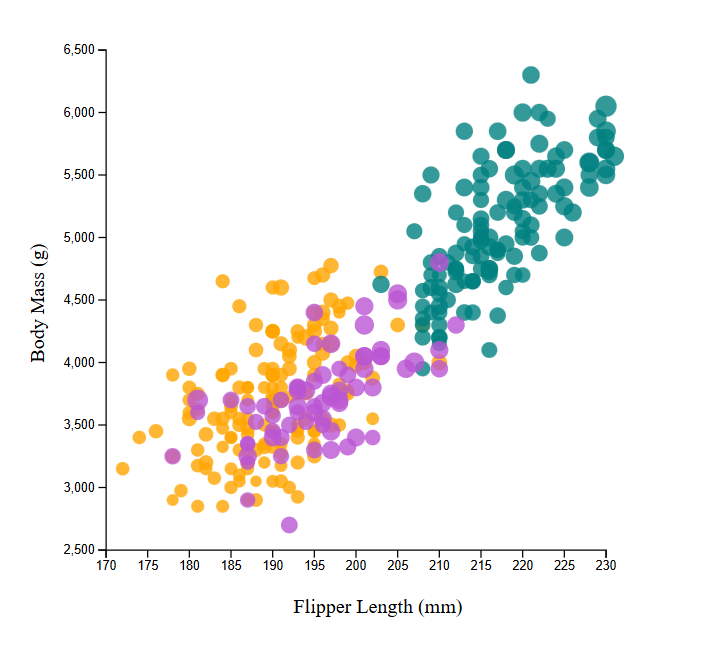
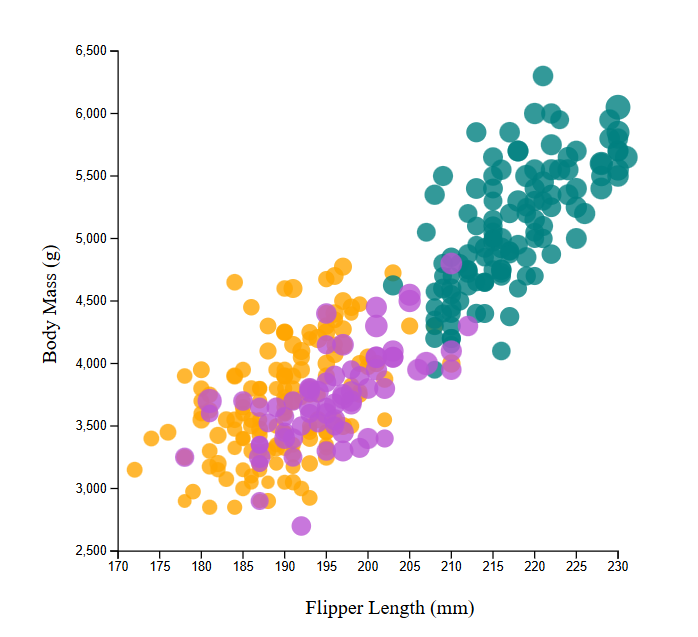
For JS and D3 implementation, added interactivity (showing information about a specific point)

Changed region(s): [[0.0301, 0.0597, 0.9327, 0.9843]]

diff --git a/all_visualizations/d3_viz.html b/all_visualizations/d3_viz.html
@@ -9,16 +9,18 @@
     const svg = d3.select("#container")
         .append("svg")
             .attr("width", 800)
-            .attr("height", 800)
+            .attr("height", 600)
         .append("g")
             .attr("transform", "translate(100, 100)");
 
     // Filtered the data by preserving only the objects where the flipper length was not NA and the body mass was above 2500 grams (so points were not placed below the x-axis)
     // Also called the plotData function within the d3 function
-    // Note: Debugged with Prof. Harrison's assistance
+    // Note: Debugged with Prof. Harrison's assistance (he also suggested and helped with using the filter function)
     d3.csv("https://raw.githubusercontent.com/TheLegacy-Coder/a2-DataVis-5ways/refs/heads/main/penglings.csv").then(function(scatterData) {
             console.log(scatterData);
-            const filteredData = scatterData.filter(function(singleDataObject) {return singleDataObject.flipper_length_mm != "NA" && singleDataObject.body_mass_g > 2500});
+            const filteredData = scatterData.filter(function(singleDataObject) {
+                return singleDataObject.flipper_length_mm != "NA" && singleDataObject.body_mass_g > 2500;
+            });
             console.log(filteredData);
             plotData(filteredData);
     });
@@ -63,15 +65,40 @@
             .data(scatterData)
             .enter()
             .append("circle")
-                .attr("cx", function(singleDataObject) {return xAxis(singleDataObject.flipper_length_mm)})
-                .attr("cy", function(singleDataObject) {return yAxis(singleDataObject.body_mass_g)})
-                .attr("r", function(singleDataObject) {
-                    return singleDataObject.bill_length_mm / 7
+                .attr("cx", function(singleDataObject) {
+                    return xAxis(singleDataObject.flipper_length_mm);
                 })
-                .style("fill", function(singleDataObject) {return speciesColorCodes(singleDataObject.species)})
+                .attr("cy", function(singleDataObject) {
+                    return yAxis(singleDataObject.body_mass_g);
+                })
+                .attr("r", function(singleDataObject) {
+                    return singleDataObject.bill_length_mm / 6;
+                })
+                .style("fill", function(singleDataObject) {
+                    return speciesColorCodes(singleDataObject.species);
+                })
                 .style("opacity", 0.8);
 
-        // I will add mouseover functionality for seeing details about a specific point
+        // Referred to https://d3-graph-gallery.com/graph/interactivity_tooltip.html for adding an info pane for the data points, as well as the mouseover and mouseout functionality
+        const pointInfoPane  = d3.select("#container")
+            .append("div")
+                .style("visibility", "hidden");
+        
+        d3.selectAll("circle")
+            .on("mouseover", function(singleMouseEvent, singleDataObject) {
+                pointInfoPane
+                    .style("visibility", "visible")
+                    .text("Flipper length in mm: " + singleDataObject.flipper_length_mm + 
+                    ", Body mass in g: " + singleDataObject.body_mass_g + 
+                    ", Bill length in mm: " + singleDataObject.bill_length_mm + 
+                    ", Species: " + singleDataObject.species);
+                console.log("Hovering");
+            })
+            .on("mouseout", function() {
+                pointInfoPane
+                    .style("visibility", "hidden");
+                console.log("Not hovering");
+            });
     };
 
 </script>

diff --git a/README.md b/README.md
@@ -5,6 +5,8 @@ Klaudio Fusha - Assignment 2 - Data Visualization, 5 Ways
 
 ![kf_js_d3_viz](img/Klaudio_Fusha_JS_d3_Viz.png)
 
+![kf_js_d3_viz_interactivity](img/Klaudio_Fusha_JS_d3_Viz_Interactivity.png)
+
 JS + d3 made recreating the visualization somewhat difficult, since it's been a while from the last time I've used d3 for anything of this caliber (past internship 2 years ago). I needed to refer to various resources to get started, make use of certain functions, etc. Granted, it became simple to customize elements as time went on. I definitely see JS + d3 being useful in cases where a lot of customizability is needed. Compared to libraries in other languages (such as matplotlib) or even GUI programs (such as Excel or PowerBI), there is a lot more you can play around with simply due to the nature of d3, even if it is a bit more complex. Regarding hacks or data manipulation, I filtered the data by preserving only the objects where the flipper length was not NA and the body mass was above 2500 grams. The latter was mainly to ensure that points were not placed/rendered below the x-axis. I also manually scaled the bill length by dividing values by 7 in order to size the points.
 
 ### Resources referenced in code:
@@ -12,6 +14,7 @@ JS + d3 made recreating the visualization somewhat difficult, since it's been a 
 - https://d3-graph-gallery.com/graph/custom_axis.html#axistitles
 - https://d3js.org/d3-scale/ordinal
 - http://www.d3noob.org/2014/02/styles-in-d3js.html
+- https://d3-graph-gallery.com/graph/interactivity_tooltip.html
 
 
 # Python + Matplotlib
@@ -67,8 +70,7 @@ PowerBI made recreating the visualization relatively easy. I loaded in a copy of
 - Called then() on d3.csv() to deal with asynchronicity issues with the JS + d3 logic (specifically when it came to plotting the data points).
 - Created a function within then() to filter the data by preserving only the objects where the flipper length was not NA and the body mass was above 2500 grams (so points were not placed below the x-axis). Still within this created function, the filtered data was then passed into another function for plotting the data.
 - Made use of min-max normalization in order to normalize the bill length, which helped in sizing the points of the visualization recreations (specifically Python + Matplotlib, Excel, and PowerBI).
-
-**I plan on making JS + d3 and Python + Matplotlib visualizations interactive
+- For the JS + d3 visualization, added interactivity that allows the user to hover over any given point and see information about it be displayed right below the chart in a pane. Specifically, the flipper length, body mass, bill length, and species are shown.
 
 ### Design Achievements
 - Was able to replicate the original visualization almost perfectly across all the different tools/libraries. I made sure to preserve the species color-coding, point sizing, and overall format of the graph (axes ticks and labels, scales, etc.) as much as possible.
